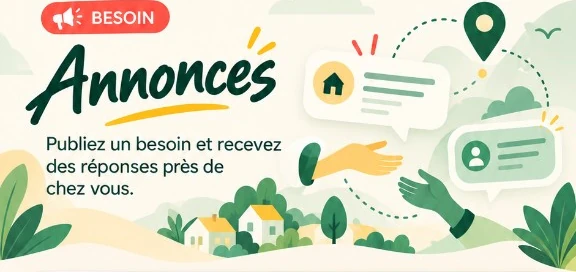
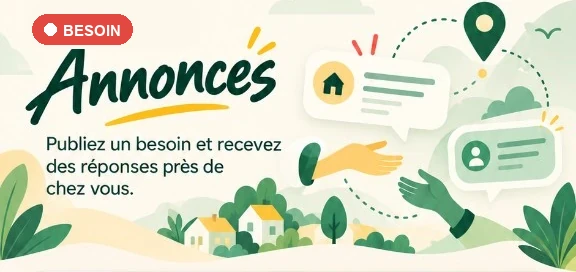
Align the three header badges and tighten the Lyanneurs filters.
Trade categories come first, in smaller chips, and the gap under the filters is shorter.

Changed region(s): [[0.0312, 0.0, 0.3125, 0.1765]]

diff --git a/results.html b/results.html
@@ -23,7 +23,7 @@
     <!-- Styles -->
     <link rel="stylesheet" href="style.css?v=20261015g">
     <link rel="stylesheet" href="explorer.css?v=20261012d">
-    <link rel="stylesheet" href="universe-header.css?v=20261017ly">
+    <link rel="stylesheet" href="universe-header.css?v=20261017badges">
 </head>
 <body class="results-page" data-explorer-mode="lyanneurs">
 
@@ -122,8 +122,8 @@
 
     <main id="explorer" class="explorer-page lyann-universe" data-mode="lyanneurs" data-universe="lyanneurs">
         <header class="lyann-universe-header" data-universe="lyanneurs">
-            <img class="annonces-header-art" src="assets/universe/lyann-annonces-header.webp?v=20261017ann" alt="" width="576" height="272">
-            <img class="lyanneurs-header-art" src="assets/universe/lyann-lyanneurs-header.webp?v=20261017ly" alt="" width="576" height="333">
+            <img class="annonces-header-art" src="assets/universe/lyann-annonces-header.webp?v=20261017badges" alt="" width="576" height="272">
+            <img class="lyanneurs-header-art" src="assets/universe/lyann-lyanneurs-header.webp?v=20261017badges" alt="" width="576" height="333">
             <div class="lyann-universe-frame">
                 <img id="universeArtWide" class="lyann-universe-art is-wide" src="assets/universe/lyanneurs-landscape.webp" alt="" width="1024" height="576">
                 <img id="universeArtTall" class="lyann-universe-art is-tall" src="assets/universe/lyanneurs-portrait.webp" alt="" width="759" height="1024">

diff --git a/explorer-ui.js b/explorer-ui.js
@@ -250,7 +250,15 @@
             if (publishBtn) publishBtn.hidden = mode === 'lyanneurs';
             root.querySelector('label[for="explorerSearchInput"]').textContent = `Rechercher dans les ${mode}`;
             $('explorerSearchInput').value = filters.query;
-            $('explorerCategory').innerHTML = '<option value="">Toutes les catégories</option>' + [...new Set(leaves.map(t => t.category))].sort((a,b) => a.localeCompare(b,'fr')).map(c => `<option value="${escape(c)}">${escape(c)}</option>`).join('');
+            const fold = value => String(value || '').normalize('NFD').replace(/[\u0300-\u036f]/g, '').toLowerCase();
+            const tradeFirst = ['plomb', 'electr', 'macon', 'menuis', 'peint', 'clim', 'jardin', 'couvr', 'carrel', 'serrur', 'chauff', 'bricol'];
+            const rank = label => {
+                const name = fold(label);
+                const index = tradeFirst.findIndex(key => name.includes(key));
+                return index === -1 ? tradeFirst.length : index;
+            };
+            const categories = [...new Set(leaves.map(t => t.category))].sort((a, b) => rank(a) - rank(b) || a.localeCompare(b, 'fr'));
+            $('explorerCategory').innerHTML = '<option value="">Toutes les catégories</option>' + categories.map(c => `<option value="${escape(c)}">${escape(c)}</option>`).join('');
             $('explorerCategory').value = filters.category;
             renderCategoryPills();
             $('explorerRequestFilters').hidden = mode !== 'annonces';

diff --git a/universe-header.css b/universe-header.css
@@ -508,7 +508,7 @@ body[data-explorer-mode="lyanneurs"] .lyanneurs-header-art {
     display: block;
     width: 100%;
     height: auto;
-    opacity: 0.9;
+    opacity: 0.78;
     border-radius: 18px;
 }
 body[data-explorer-mode="annonces"] .lyann-universe-frame,
@@ -541,6 +541,26 @@ body.is-native-app[data-explorer-mode="lyanneurs"] .lyanneurs-header-art {
     margin-left: calc(50% - 50vw);
     border-radius: 0;
 }
+body[data-explorer-mode="lyanneurs"] .explorer-page .lyann-pills {
+    flex-wrap: wrap;
+    overflow: visible;
+    mask-image: none;
+    -webkit-mask-image: none;
+    gap: 6px;
+    padding: 0;
+}
+body[data-explorer-mode="lyanneurs"] .lyann-pill {
+    min-height: 30px;
+    padding: 3px 9px;
+    font-size: 0.74rem;
+}
+@media (max-width: 767px) {
+    .explorer-page .explorer-tools { margin: 8px 0 0 !important; }
+    .explorer-page .explorer-results-heading { margin: 2px 0 8px !important; }
+    .explorer-page .explorer-active-filters:empty { display: none; }
+}
+body.is-native-app .explorer-page .explorer-tools { margin: 8px 0 0 !important; }
+body.is-native-app .explorer-page .explorer-results-heading { margin: 2px 0 8px !important; }
 @media (min-width: 768px) {
     #bokantajFilterSheetModal.mobile-bottom-sheet {
         align-items: center !important;

diff --git a/feed.html b/feed.html
@@ -17,7 +17,7 @@
     <link rel="preconnect" href="https://fonts.gstatic.com" crossorigin>
     <link href="https://fonts.googleapis.com/css2?family=Outfit:wght@300;400;500;600;700;800;900&display=swap" rel="stylesheet">
     <link rel="stylesheet" href="style.css?v=20261015n">
-    <link rel="stylesheet" href="universe-header.css?v=20261017full">
+    <link rel="stylesheet" href="universe-header.css?v=20261017badges">
     
     <!-- Phosphor Icons -->
     <link rel="stylesheet" href="vendor/phosphor/phosphor.css?v=2.1.2">
@@ -129,7 +129,7 @@
     <!-- ========== HERO PAGE BOKANTAJ ========== -->
     <section class="feed-hero-section lyann-universe-header" data-universe="bokantaj">
         <div class="container lyann-universe" data-universe="bokantaj">
-            <img class="bokantaj-header-art" src="assets/universe/lyann-bokantaj-header-en-direct.webp?v=20261017pst" alt="Bokantaj, en direct. Partagez une actu, une idée ou un bon plan avec vos voisins." width="576" height="278">
+            <img class="bokantaj-header-art" src="assets/universe/lyann-bokantaj-header-en-direct.webp?v=20261017badges" alt="Bokantaj, en direct. Partagez une actu, une idée ou un bon plan avec vos voisins." width="576" height="278">
         </div>
     </section>
 
